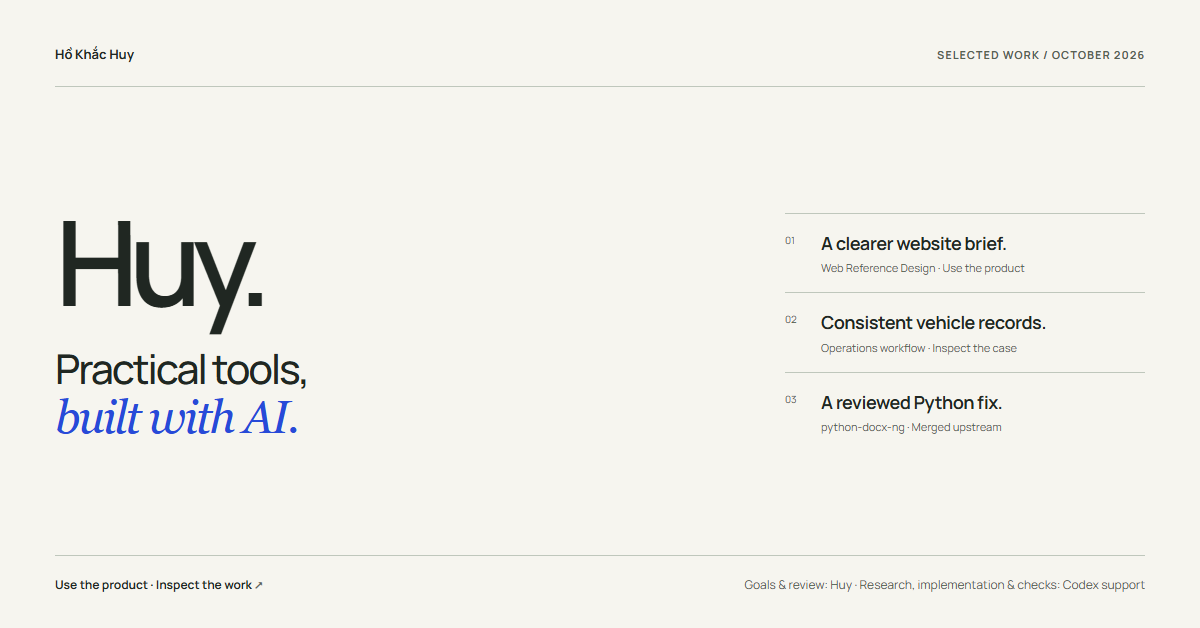
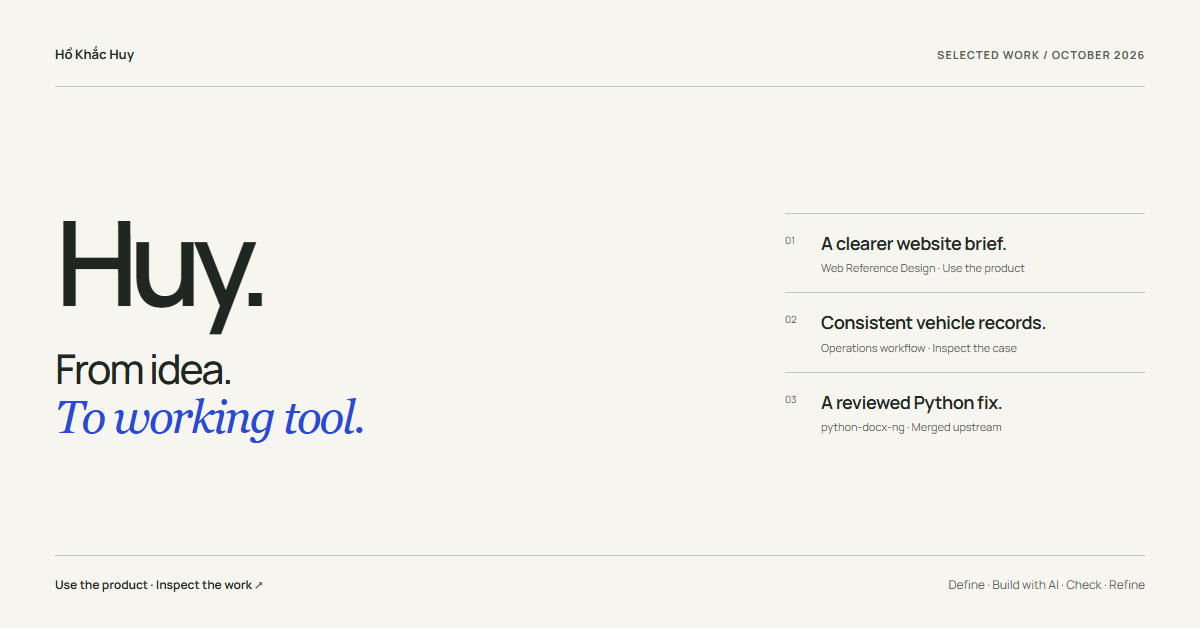
Present AI direction and delivery as a product-building capability

Changed region(s): [[0.0308, 0.5748, 0.3083, 0.6959], [0.6167, 0.9076, 0.9558, 0.9379]]

diff --git a/docs/guide.html b/docs/guide.html
@@ -6,7 +6,7 @@
     <title>Hướng dẫn sử dụng và giới thiệu portfolio — Hồ Khắc Huy</title>
     <meta
       name="description"
-      content="Cách dùng sản phẩm, giới thiệu đúng phần đóng góp và điều chỉnh portfolio của Huy."
+      content="Cách dùng sản phẩm, giới thiệu năng lực làm việc với AI và điều chỉnh portfolio của Huy."
     />
     <meta name="robots" content="noindex" />
     <link rel="icon" href="data:," />
@@ -45,18 +45,19 @@
           <div class="case-body">
             <h2>1. Giới thiệu trong khoảng 30 giây</h2>
             <p>
-              “Tôi dùng AI và Codex để xây dựng các công cụ nhỏ cho công việc cụ
-              thể. Sản phẩm dễ thử nhất là Web Reference Design: giúp người đang
+              “Tôi biến ý tưởng thành công cụ dùng được bằng cách giao việc cho
+              AI, kiểm tra đầu ra và điều chỉnh đến khi đáp ứng nhu cầu.
+              Sản phẩm dễ thử nhất là Web Reference Design: giúp người đang
               làm website với coding agent viết yêu cầu rõ hơn, chọn phần hữu
               ích từ thiết kế tham khảo rồi kiểm tra trang đã làm. Tôi cũng có
               một case kiểm tra lỗi trùng bản ghi xe và một bản sửa Python được
               maintainer duyệt.”
             </p>
             <div class="callout">
-              Phần mình chịu trách nhiệm: mục tiêu, giới hạn, đánh giá kết quả
-              và yêu cầu sửa đổi. Codex hỗ trợ nghiên cứu, triển khai, tìm lỗi,
-              kiểm tra và tài liệu. Có sản phẩm chạy được không tự chứng minh
-              mình tự viết thành thạo toàn bộ mã nguồn.
+              Điểm cần thể hiện: biết chọn vấn đề đáng giải quyết, mô tả yêu cầu
+              rõ, điều phối AI qua nghiên cứu và triển khai, đánh giá kết quả,
+              xử lý lỗi và bàn giao thứ người khác có thể dùng. Khi giới thiệu,
+              mở sản phẩm và cho người xem thấy những bước đó qua một ví dụ cụ thể.
             </div>
             <h2>2. Tự dùng Web Reference Design</h2>
             <ol>
@@ -121,9 +122,9 @@
               định, không phải số người dùng hay kết quả vận hành thật.
             </p>
             <p>
-              <strong>Python:</strong> “Tên một kiểu chữ trong Word có dấu nháy
+              <strong>Python:</strong> “Tên một kiểu định dạng trong Word có dấu nháy
               là dữ liệu hợp lệ, nhưng cách tìm cũ có thể lỗi. Tôi đóng góp bản
-              sửa và kiểm tra hồi quy với AI hỗ trợ; maintainer đã review và
+              sửa và kiểm tra hồi quy; maintainer đã review và
               merge. Chẩn đoán ban đầu đến từ upstream.”
             </p>
             <h2>5. Điều chỉnh portfolio</h2>
@@ -139,7 +140,7 @@
             <p>
               Yêu cầu sửa nên có phạm vi cụ thể, ví dụ: “Đổi phần giới thiệu Web
               Reference Design để người dùng không chuyên hiểu trong một câu.
-              Giữ link và phần ghi nhận Codex. Xem lại ở 390px và desktop, kiểm
+              Giữ link, chức năng và thông tin nguồn. Xem lại ở 390px và desktop, kiểm
               tra nút chính.”
             </p>
             <p>
@@ -147,13 +148,13 @@
               nút Before/After và các mục mở rộng bằng bàn phím. Kiểm tra bản
               điện thoại riêng; ảnh desktop thu nhỏ không thay thế việc đó.
             </p>
-            <h2>6. Khi được hỏi mình tự làm được gì</h2>
+            <h2>6. Thể hiện khả năng dùng AI qua một thay đổi thật</h2>
             <p>
-              Nêu điều đã thực sự làm và có thể giải thích. Nếu chưa tự sửa một
-              phần mã cụ thể, nói mình có thể làm việc đó với Codex hỗ trợ và
-              kiểm tra kết quả. Không suy ra số năm kinh nghiệm, khách hàng,
-              người dùng, doanh thu hay khả năng tự lập trình từ số dòng mã hoặc
-              số bài kiểm tra.
+              Chọn một thay đổi nhỏ trong sản phẩm, nêu lý do người dùng cần nó,
+              giao yêu cầu rõ cho AI rồi kiểm tra bản sửa. Giải thích cách mình
+              phát hiện đầu ra chưa đạt, phản hồi và xác nhận kết quả. Đó là cách
+              cho thấy khả năng điều phối công cụ và đánh giá chất lượng bằng
+              công việc cụ thể.
             </p>
             <p>
               Bước tự luyện hữu ích: đổi một nội dung của brief, tự xem đầu ra

diff --git a/docs/index.html b/docs/index.html
@@ -3,16 +3,16 @@
   <head>
     <meta charset="utf-8" />
     <meta name="viewport" content="width=device-width, initial-scale=1" />
-    <title>Hồ Khắc Huy — Practical tools, built with AI</title>
+    <title>Hồ Khắc Huy — From idea to working tool</title>
     <meta
       name="description"
-      content="Useful tools, clear workflows and inspectable work. Explore Huy's design-brief tool, vehicle workflow and reviewed Python contribution, built with extensive AI support."
+      content="Huy turns ideas into working tools by directing AI across research, implementation, testing and iteration. Try the products and explore the work."
     />
     <meta name="theme-color" content="#f6f5ef" />
     <meta property="og:type" content="website" />
     <meta
       property="og:title"
-      content="Hồ Khắc Huy — Practical tools, built with AI"
+      content="Hồ Khắc Huy — From idea to working tool"
     />
     <meta
       property="og:description"
@@ -54,9 +54,9 @@
     <main id="main" tabindex="-1">
       <section class="hero wrap" aria-labelledby="intro-title">
         <div>
-          <p class="eyebrow">AI-assisted software &amp; workflow tools</p>
+          <p class="eyebrow">Product development &amp; workflow automation</p>
           <h1 id="intro-title">
-            Practical tools.<br /><em>Built with AI.</em>
+            From idea.<br /><em>To working tool.</em>
           </h1>
           <p class="hero-note">
             Hanoi, Vietnam · Working in English &amp; Vietnamese
@@ -64,8 +64,9 @@
         </div>
         <div class="hero-aside">
           <p>
-            I’m Huy. I use AI to turn a practical problem into a working tool,
-            then check the details that make it useful.
+            I’m Huy. I turn ideas into useful tools by directing AI through
+            research, implementation, testing and iteration—then preparing the
+            result for someone else to use.
           </p>
           <a class="text-link" href="#work"
             >Use the product. Inspect the work.
@@ -198,7 +199,7 @@
         <div>
           <p class="eyebrow">How I work</p>
           <h2 id="approach-title">
-            A clear goal.<br />A working result.<br />An honest account.
+            Define the task.<br />Direct the build.<br />Check the result.
           </h2>
         </div>
         <div class="approach-copy">
@@ -209,24 +210,24 @@
             familiar concerns.
           </p>
           <p>
-            I develop with extensive Codex support. That is part of the work,
-            and it is credited here. These projects show what I can deliver
-            using those tools; they don’t establish independent mastery of every
-            language or framework in the source.
+            I put AI to work across research, implementation, debugging and
+            documentation. I focus on choosing a useful problem, guiding the
+            work, checking the output and refining the details that make the
+            result usable.
           </p>
           <div class="responsibilities">
             <div>
-              <h3>My contribution</h3>
+              <h3>Direction &amp; judgment</h3>
               <p>
-                Set the goal and constraints, assess the result, give feedback
-                and decide what needs changing.
+                Define who the tool serves, what it needs to do and how to
+                assess the result. Use feedback to decide what needs changing.
               </p>
             </div>
             <div>
-              <h3>Codex support</h3>
+              <h3>Execution &amp; delivery</h3>
               <p>
-                Research, implementation, debugging, automated checks and
-                documentation.
+                Direct AI through the build, work through failures and prepare
+                usable demos, recorded checks and clear instructions.
               </p>
             </div>
           </div>

diff --git a/docs/sources.html b/docs/sources.html
@@ -60,7 +60,7 @@
             </ul>
             <h2 id="specific-adaptation-decisions">Specific adaptation decisions</h2>
             <ul>
-              <li><strong>First viewport:</strong> name/navigation above one clear statement, with a short explanation of extensive AI use. The large product example follows immediately rather than a generic feature-card grid.</li>
+              <li><strong>First viewport:</strong> name/navigation above “From idea. To working tool.” A short explanation presents Huy&#x27;s ability to direct AI through research, implementation, testing, iteration and usable delivery. The large product example follows immediately rather than a generic feature-card grid.</li>
               <li><strong>Hierarchy:</strong> one usable product first, then two bounded cases. QuoteLens and PourLab remain optional experiments in a native disclosure.</li>
               <li><strong>Typography:</strong> Manrope for functional text, restrained Georgia italic for the editorial title. Headings use tight tracking; body text has a comfortable reading measure.</li>
               <li><strong>Palette:</strong> warm paper <code>#f6f5ef</code>, ink <code>#202722</code>, muted text <code>#5c655d</code>, cobalt <code>#274ad8</code>. Cobalt indicates product identity and selected emphasis; primary buttons use ink.</li>
@@ -73,7 +73,7 @@
             <ul>
               <li><a href="https://github.com/builtbyhuy/xuong-vinfast-phuc-loi/blob/9f05f77547a33a82f644c2ea60a63ae9e0fb8cbb/docs/CASE-CONCURRENT-FIRST-ENTRY.md">Vehicle workflow and its pinned case</a>: local PostgreSQL regression evidence, not production usage. The hub does not expose workshop records or account credentials.</li>
               <li><a href="https://github.com/toxicphreAK/python-docx-ng/pull/131">python-docx-ng PR #131</a>: merged upstream contribution. The issue/diagnosis came from upstream. The hub credits the correction and regression contribution without claiming independent discovery or employment.</li>
-              <li>AI contribution is explicit: Huy directs the goal, constraints and review; Codex supports research, implementation, debugging, checks and documentation. The existence of a generated site is not presented as proof of unaided programming fluency.</li>
+              <li>AI is presented as a working capability: Huy defines goals and constraints, directs the build, evaluates the result and guides revisions. The portfolio demonstrates this through usable tools, recorded checks and handover instructions. Detailed cases retain relevant implementation provenance; personal technical skills are described only through the work actually shown.</li>
             </ul>
             <p>The portfolio was produced locally. Publication status and any LinkedIn changes are separate from these files.</p>
           </div>

diff --git a/docs/work/python-docx.html b/docs/work/python-docx.html
@@ -6,7 +6,7 @@
     <title>Reviewed Python contribution — Quote-safe document styles</title>
     <meta
       name="description"
-      content="A valid document style with quotation marks should remain usable. Huy’s AI-assisted python-docx-ng correction was reviewed and merged by the upstream maintainer."
+      content="A valid document style with quotation marks should remain usable. Huy’s python-docx-ng correction was reviewed and merged by the upstream maintainer."
     />
     <meta
       property="og:title"
@@ -89,7 +89,7 @@
           <aside class="case-aside">
             <p>python-docx-ng · PR #131</p>
             <p>Merged 4 August 2026</p>
-            <p>AI-assisted contribution</p>
+            <p>Correction &amp; regression tests</p>
             <p>
               <a href="https://github.com/toxicphreAK/python-docx-ng/issues/121"
                 >Original issue &amp; diagnosis ↗</a
@@ -119,8 +119,8 @@
             </p>
             <p>
               The original issue and diagnosis came from upstream. My
-              contribution was the correction and regression coverage, developed
-              with AI assistance. The maintainer reviewed mixed quotes,
+              contribution was the correction and regression coverage. I used
+              AI to develop and check the change. The maintainer reviewed mixed quotes,
               save/load and namespace behavior, then merged the change.
             </p>
             <details>
@@ -128,10 +128,9 @@
               <div>
                 <p>
                   The public pull request contains the discussion, changed files
-                  and maintainer response. It is evidence of an accepted,
-                  specific correctness contribution; it is not a claim of
-                  independent bug discovery, paid engineering experience or
-                  broad security expertise.
+                  and maintainer response. It records the original diagnosis,
+                  the correction, regression coverage and acceptance of the
+                  change upstream.
                 </p>
                 <p>
                   <a
@@ -169,7 +168,7 @@
       </div>
     </main>
     <footer class="footer wrap">
-      <p>Hồ Khắc Huy · Built with extensive Codex support</p>
+      <p>Hồ Khắc Huy · Define · Build with AI · Check · Refine</p>
       <div class="footer-links">
         <a href="../">Selected work</a
         ><a href="../guide.html" lang="vi">Hướng dẫn sử dụng</a

diff --git a/docs/work/web-reference-design.html b/docs/work/web-reference-design.html
@@ -186,9 +186,9 @@
               <div>
                 <p>
                   This project combines a portable design workflow, a reference
-                  catalog, runnable examples and a brief composer. It shows an
-                  AI-assisted implementation with documented decisions and
-                  checks.
+                  catalog, runnable examples and a brief composer. It shows how
+                  to direct a coding agent from a clear task through
+                  implementation, rendered review and revision.
                 </p>
                 <p>
                   The skill guides a coding agent; it does not generate a
@@ -198,9 +198,8 @@
                   improvement is claimed.
                 </p>
                 <p>
-                  Huy sets goals and constraints, reviews results and directs
-                  revisions. Codex supports research, implementation, debugging,
-                  tests and documentation. The seed reference collection is
+                  Huy defines the goal and constraints, directs AI across the
+                  build, and uses review and tests to guide revisions. The seed reference collection is
                   credited to Lê Huy Thái in the project.
                 </p>
                 <p>
@@ -228,7 +227,7 @@
       </div>
     </main>
     <footer class="footer wrap">
-      <p>Hồ Khắc Huy · Built with extensive Codex support</p>
+      <p>Hồ Khắc Huy · Define · Build with AI · Check · Refine</p>
       <div class="footer-links">
         <a href="../">Selected work</a
         ><a href="../guide.html" lang="vi">Hướng dẫn sử dụng</a

diff --git a/docs/work/vehicle-workflow.html b/docs/work/vehicle-workflow.html
@@ -88,7 +88,7 @@
         </dl>
         <section class="case-layout">
           <aside class="case-aside">
-            <p>AI-assisted source implementation</p>
+            <p>Photo intake → records → reporting</p>
             <p>Telegram · PostgreSQL · Sheets</p>
             <p>Database fix checked locally</p>
             <p>No public live bot demo</p>
@@ -181,9 +181,9 @@
                   accuracy, customer usage or business savings are claimed here.
                 </p>
                 <p>
-                  This case was developed with extensive Codex assistance. Huy
-                  directs the work and reviews the delivered behavior; the
-                  repository contains the implementation and reproduction steps.
+                  Huy directed AI through the implementation and regression
+                  case, reviewing the delivered behavior. The repository
+                  contains the implementation and reproduction steps.
                 </p>
                 <p>
                   <a
@@ -213,7 +213,7 @@
       </div>
     </main>
     <footer class="footer wrap">
-      <p>Hồ Khắc Huy · Built with extensive Codex support</p>
+      <p>Hồ Khắc Huy · Define · Build with AI · Check · Refine</p>
       <div class="footer-links">
         <a href="../">Selected work</a
         ><a href="../guide.html" lang="vi">Hướng dẫn sử dụng</a

diff --git a/docs/cover.html b/docs/cover.html
@@ -125,7 +125,7 @@
       <div class="main">
         <div>
           <h1 class="name">Huy.</h1>
-          <p class="headline">Practical tools,<br /><em>built with AI.</em></p>
+          <p class="headline">From idea.<br /><em>To working tool.</em></p>
         </div>
         <div class="work-list">
           <div class="work">
@@ -155,10 +155,7 @@
         <strong
           >Use the product · Inspect the work
           <span aria-hidden="true">↗</span></strong
-        ><span
-          >Goals &amp; review: Huy · Research, implementation &amp; checks:
-          Codex support</span
-        >
+        ><span>Define · Build with AI · Check · Refine</span>
       </div>
     </main>
   </body>

diff --git a/docs/DESIGN-NOTES.md b/docs/DESIGN-NOTES.md
@@ -19,7 +19,7 @@ Prepared 22 October 2026. This is a static portfolio for readers who need to und
 
 ## Specific adaptation decisions
 
-- **First viewport:** name/navigation above one clear statement, with a short explanation of extensive AI use. The large product example follows immediately rather than a generic feature-card grid.
+- **First viewport:** name/navigation above “From idea. To working tool.” A short explanation presents Huy's ability to direct AI through research, implementation, testing, iteration and usable delivery. The large product example follows immediately rather than a generic feature-card grid.
 - **Hierarchy:** one usable product first, then two bounded cases. QuoteLens and PourLab remain optional experiments in a native disclosure.
 - **Typography:** Manrope for functional text, restrained Georgia italic for the editorial title. Headings use tight tracking; body text has a comfortable reading measure.
 - **Palette:** warm paper `#f6f5ef`, ink `#202722`, muted text `#5c655d`, cobalt `#274ad8`. Cobalt indicates product identity and selected emphasis; primary buttons use ink.
@@ -32,6 +32,12 @@ Prepared 22 October 2026. This is a static portfolio for readers who need to und
 
 - [Vehicle workflow and its pinned case](https://github.com/builtbyhuy/xuong-vinfast-phuc-loi/blob/9f05f77547a33a82f644c2ea60a63ae9e0fb8cbb/docs/CASE-CONCURRENT-FIRST-ENTRY.md): local PostgreSQL regression evidence, not production usage. The hub does not expose workshop records or account credentials.
 - [python-docx-ng PR #131](https://github.com/toxicphreAK/python-docx-ng/pull/131): merged upstream contribution. The issue/diagnosis came from upstream. The hub credits the correction and regression contribution without claiming independent discovery or employment.
-- AI contribution is explicit: Huy directs the goal, constraints and review; Codex supports research, implementation, debugging, checks and documentation. The existence of a generated site is not presented as proof of unaided programming fluency.
+- AI is presented as a working capability: Huy defines goals and constraints, directs the build, evaluates the result and guides revisions. The portfolio demonstrates this through usable tools, recorded checks and handover instructions. Detailed cases retain relevant implementation provenance; personal technical skills are described only through the work actually shown.
 
 The portfolio was produced locally. Publication status and any LinkedIn changes are separate from these files.
+
+## AI capability positioning revision — 22 October 2026
+
+Reframed the introduction and case copy around directing AI to produce useful tools: define the task, guide implementation, evaluate results, refine and hand over. Replaced repeated support disclaimers with concrete contribution and outcome descriptions. Kept the selected visual direction and factual example/data boundaries.
+
+Applied ui-ux-pro-max to this copy revision, including its Heading Line Balance guidance and body-text readability checks. Inspected the revised homepage on desktop and at a 390-pixel mobile width. Checked 320, 390, 1280 and 1440-pixel layouts: no horizontal overflow, local Manrope loaded, body line-height 1.65. Recreated and inspected the 1200 × 628 Featured cover from cover.html. This was a focused content and layout review; the earlier interaction evidence still refers to the unchanged controls and product behavior.

diff --git a/README.md b/README.md
@@ -1,9 +1,9 @@
 # Hồ Khắc Huy
 
-**Practical tools, built with AI.**  
+**From idea to working tool.**
 Hanoi, Vietnam · English / Vietnamese
 
-I build independent tools with extensive Codex support, focusing on clear workflows, usable interfaces and results people can inspect. My background in import/export documentation shapes my interest in missing information, exceptions and traceability.
+I turn ideas into useful tools by directing AI through research, implementation, testing and iteration, then preparing the result for someone else to use. My background in import/export documentation shapes my interest in missing information, exceptions and traceability.
 
 **[Explore my portfolio](https://builtbyhuy.github.io/builtbyhuy/)** · [LinkedIn](https://www.linkedin.com/in/builtbyhuy/) · [Email](mailto:hohuyblon@gmail.com)
 
@@ -15,20 +15,20 @@ I build independent tools with extensive Codex support, focusing on clear workfl
 - **[Explore the worked examples](https://builtbyhuy.github.io/web-reference-design/):** inspect desktop/mobile results and try the form interactions. The examples are fictional and create local previews.
 - **[Install the skill or inspect the source](https://github.com/builtbyhuy/web-reference-design):** use the workflow on your own project, with resource attribution and license notes included.
 
-My projects use Codex for research, code, debugging, tests and documentation. I set the goal and constraints, provide feedback and use these tools to revise the result. The portfolio exposes the resulting tools, decisions and checks for inspection.
+I define the task, guide the build, evaluate the output and refine what needs changing. Working demos, recorded checks and clear instructions make the result easy to inspect and continue.
 
 <details>
 <summary>Reviewed contribution and engineering cases</summary>
 
 ### A document-formatting bug, fixed and accepted upstream
 
-A valid style containing quotation marks could be created but fail when retrieved. I contributed the maintainer-described correction to python-docx-ng with AI assistance and regression coverage. The maintainer reviewed and merged it.
+A valid style containing quotation marks could be created but fail when retrieved. I contributed the maintainer-described correction to python-docx-ng with regression coverage. The maintainer reviewed and merged it.
 
 [Reviewed PR #131](https://github.com/toxicphreAK/python-docx-ng/pull/131) · [Original issue and diagnosis](https://github.com/toxicphreAK/python-docx-ng/issues/121)
 
 ### Vehicle entry/exit records
 
-An AI-assisted workflow connects Telegram photo intake, PostgreSQL records and a Google Sheets reporting view. Its concurrency case reproduces simultaneous requests creating duplicate active records and checks the correction with real database connections.
+A workflow connects Telegram photo intake, PostgreSQL records and a Google Sheets reporting view. Its concurrency case reproduces simultaneous requests creating duplicate active records and checks the correction with real database connections.
 
 [Case and reproduction](https://github.com/builtbyhuy/xuong-vinfast-phuc-loi/blob/9f05f77547a33a82f644c2ea60a63ae9e0fb8cbb/docs/CASE-CONCURRENT-FIRST-ENTRY.md) · [Source](https://github.com/builtbyhuy/xuong-vinfast-phuc-loi)
 
